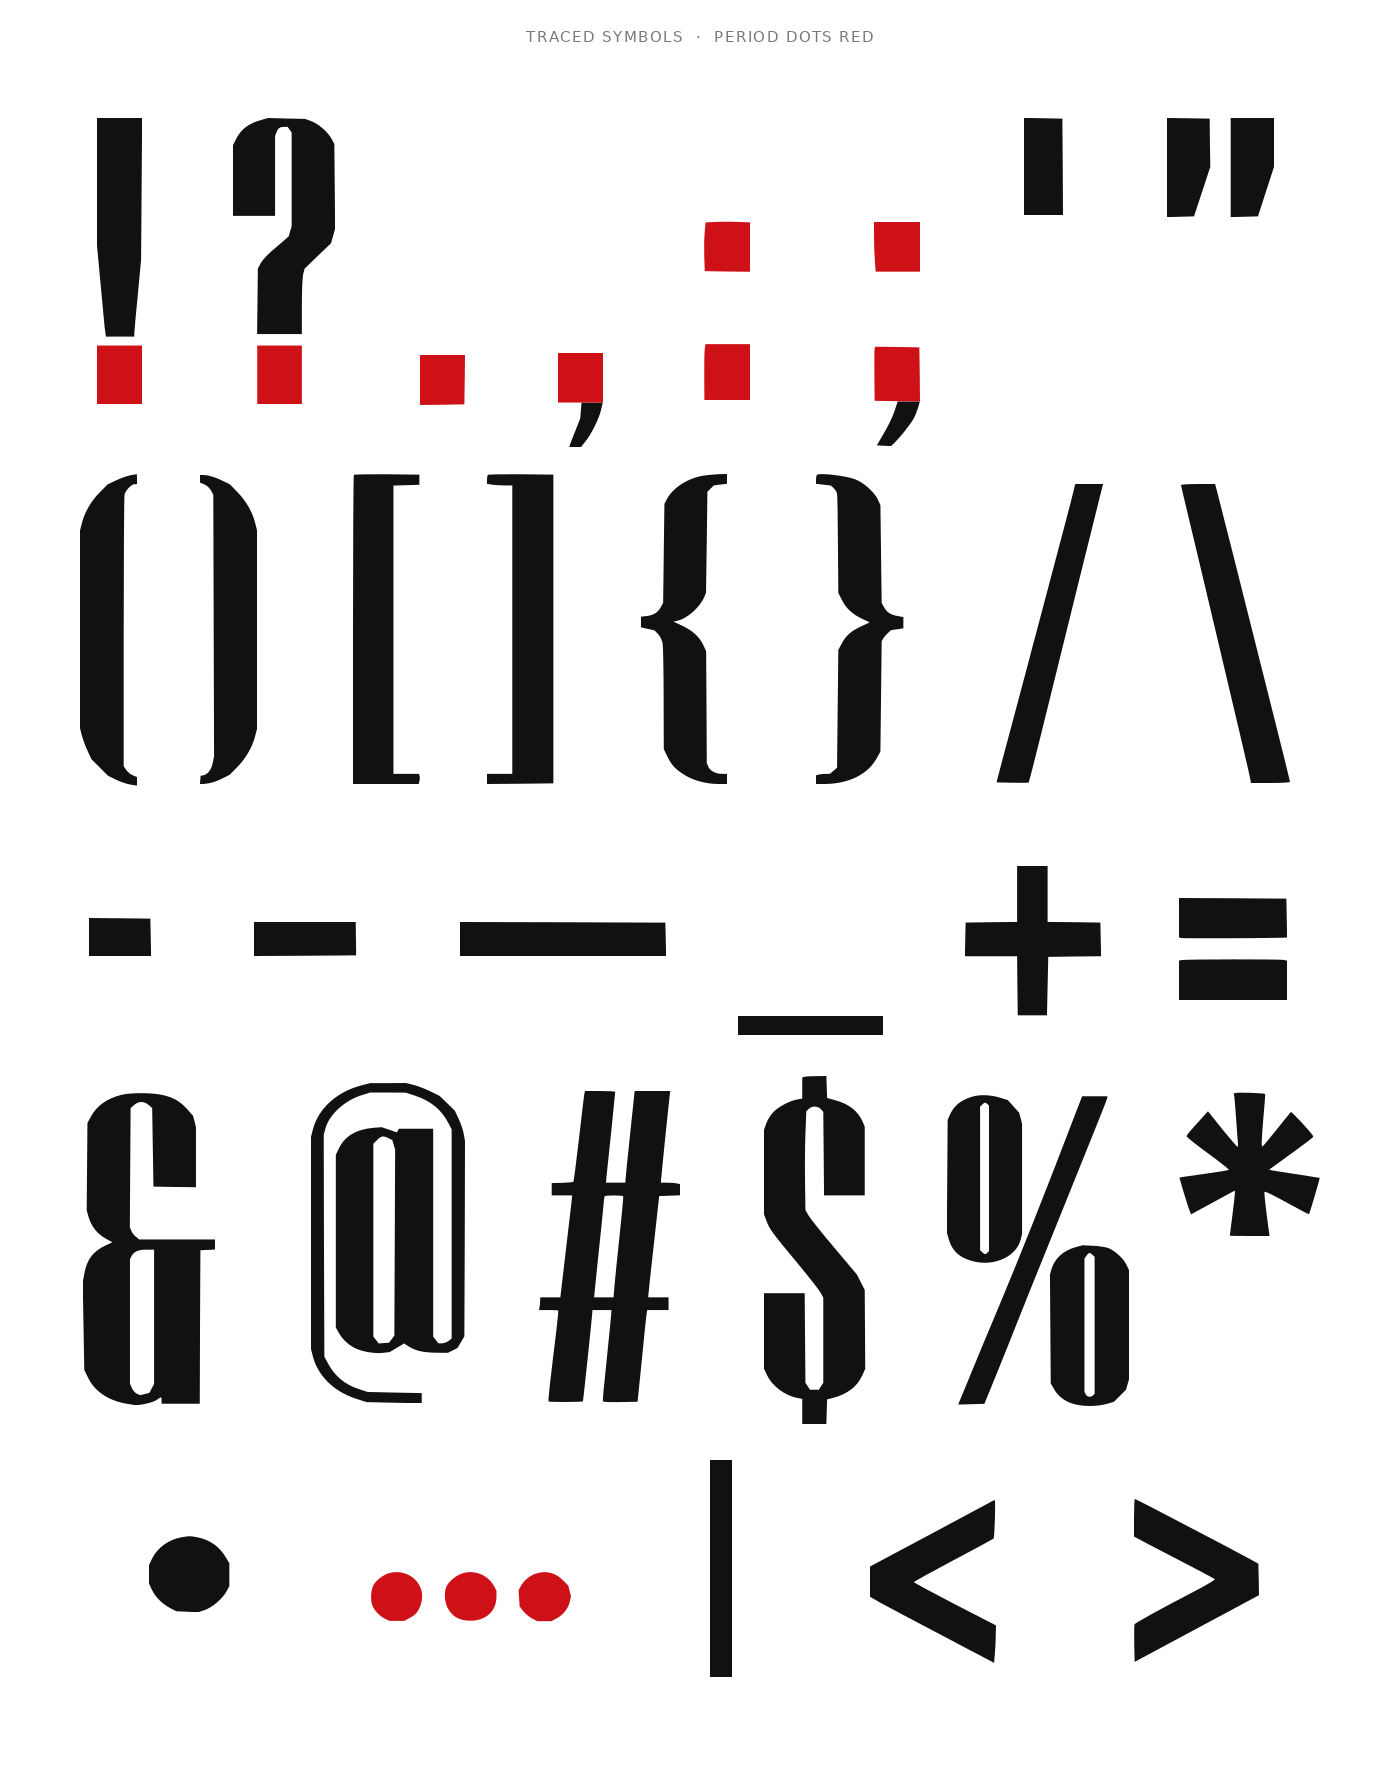
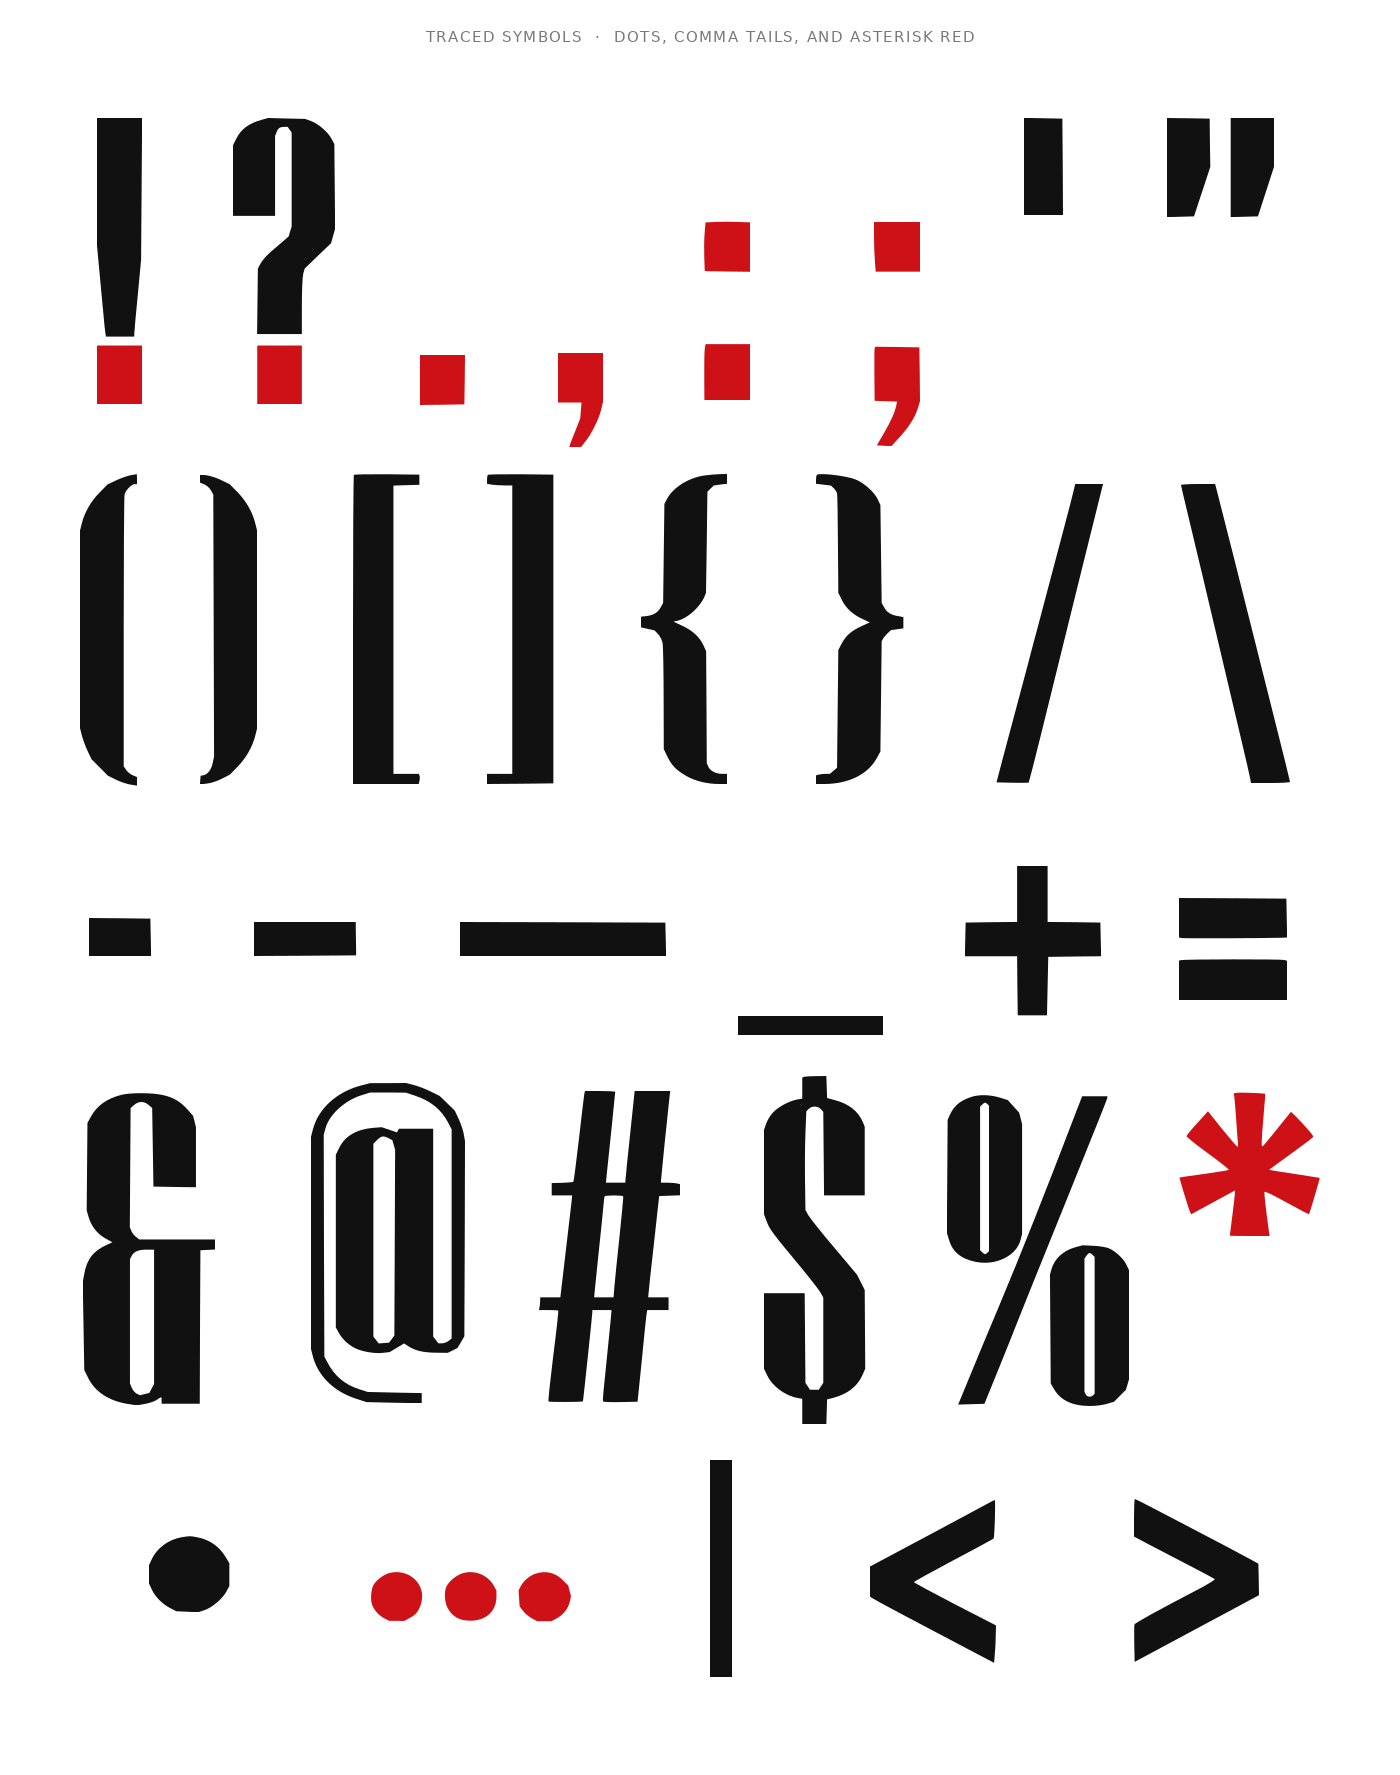
Color the asterisk and the comma tails red.
The comma and semicolon are red through the tail. The asterisk is red with them.

diff --git a/public/site00-correspondence-type-authority/v1/09_REVIEW/index.html b/public/site00-correspondence-type-authority/v1/09_REVIEW/index.html
@@ -39,8 +39,8 @@
   </section>
   <section>
     <h2>Symbol sheet</h2>
-    <p>Traced from the founder symbol sheet. Period dots are red: the period, the base of the exclamation and question, the colon, the semicolon dot, the comma head, and the ellipsis. The tails and the other marks stay black. <a href="symbols.html">Open it on its own</a></p>
-    <figure><img class="full" style="width:min(920px,100%)" src="SYMBOLS.png?v=1.3" alt="Traced symbols with red period dots"/></figure>
+    <p>Traced from the founder symbol sheet. Red: the period dots, the comma and semicolon through the tail, and the asterisk. <a href="symbols.html">Open it on its own</a></p>
+    <figure><img class="full" style="width:min(920px,100%)" src="SYMBOLS.png?v=1.4" alt="Traced symbols with red period dots"/></figure>
   </section>
   <section>
     <h2>Full reference</h2>

diff --git a/public/site00-correspondence-type-authority/v1/09_REVIEW/symbols.html b/public/site00-correspondence-type-authority/v1/09_REVIEW/symbols.html
@@ -10,6 +10,6 @@
 </style>
 </head>
 <body>
-<img src="SYMBOLS.png?v=1.3" alt="Traced correspondence symbols. Period dots are red. The other marks are black."/>
+<img src="SYMBOLS.png?v=1.4" alt="Traced symbols. Period dots, comma tails, and the asterisk are red."/>
 </body>
 </html>

diff --git a/scripts/correspondence-type-authority/trace_symbol_sheet.py b/scripts/correspondence-type-authority/trace_symbol_sheet.py
@@ -1,9 +1,8 @@
 #!/usr/bin/env python3
 """Trace the founder symbol sheet and paint the period dots red.
 
-The marks are the pixels on the sheet. Nothing is redrawn. A dot is red when
-it is a period: the standalone period, the base of ! and ?, both colon dots,
-the semicolon dot, the comma head, and the three ellipsis dots. Tails, stems,
+The marks are the pixels on the sheet. Nothing is redrawn. Red is the period
+dots, the whole comma and semicolon (head and tail), and the asterisk. Stems
 and every other mark stay black.
 """
 from __future__ import annotations
@@ -231,6 +230,10 @@ def main() -> None:
         for group, ch in zip(groups, chars):
             mask, (x, y, w, h) = union_mask(group)
             red, black = redact(mask, group, (x, y))
+            # The comma and the semicolon are red through the tail. The asterisk is red.
+            if ch in ',;*':
+                red = mask.copy()
+                black = np.zeros_like(mask)
             if red.sum() + black.sum() == 0:
                 raise SystemExit(f'empty {ch}')
             slug = f'u{ord(ch):04X}'
@@ -308,7 +311,7 @@ def main() -> None:
             canvas.alpha_composite(Image.fromarray(tint, 'RGBA'), (dx, dy))
     draw = ImageDraw.Draw(canvas)
     font = ImageFont.truetype('/usr/share/fonts/truetype/dejavu/DejaVuSans.ttf', 15)
-    caption = 'TRACED SYMBOLS  ·  PERIOD DOTS RED'
+    caption = 'TRACED SYMBOLS  ·  DOTS, COMMA TAILS, AND ASTERISK RED'
     tracking = 1.4
     widths = [font.getlength(c) + tracking for c in caption]
     tx = (width - (sum(widths) - tracking)) / 2
